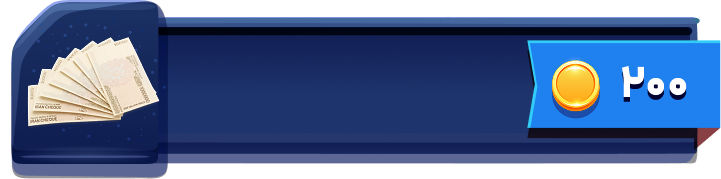
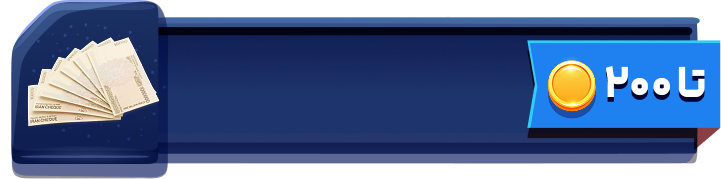
fix issue

Changed region(s): [[0.7628, 0.3352, 0.9764, 0.6704]]

diff --git a/src/controllers/smsController.js b/src/controllers/smsController.js
@@ -7,7 +7,12 @@
 const validator = require("validator");
 const axios = require("axios");
 const Sms = require("../models/sms");
-const { toNormalNumber, isEmptyObject, sendSms, sendSmsCharisma } = require("../utils/helper");
+const {
+  toNormalNumber,
+  isEmptyObject,
+  sendSms,
+  sendSmsCharisma,
+} = require("../utils/helper");
 
 // A helper function to generate a numeric OTP code of given length
 function generateOtpCode(length = 4) {
@@ -53,15 +58,15 @@ exports.sendSmsCode = async (req, res) => {
 
     let sms = new Sms({
       phone: phone,
-      code: code,
-      // code: "12345",
+      // code: code,
+      code: "12345",
     });
 
     const text = "کد ورود شما: " + code + "\n\n کاریزما";
-    const { done } = await sendSmsCharisma(text, phone);
-    if (!done) {
-      return res.json({ status: 502, message: "خطا در ارسال کد تایید!" });
-    }
+    // const { done } = await sendSmsCharisma(text, phone);
+    // if (!done) {
+    // return res.json({ status: 502, message: "خطا در ارسال کد تایید!" });
+    // }
 
     await sms.save();
 

diff --git a/src/services/charismaAuthService.js b/src/services/charismaAuthService.js
@@ -19,7 +19,9 @@ export class BearerAuth {
     const clientId = "IpcnOtc6VbA_uXFJXFjlbhOu2fsa";
     const clientSecret = "iHfFoimuQab6Nym9BR5c5AEcYkoa";
 
-    const credentials = Buffer.from(`${clientId}:${clientSecret}`).toString("base64");
+    const credentials = Buffer.from(`${clientId}:${clientSecret}`).toString(
+      "base64"
+    );
 
     const headers = {
       Authorization: `Basic ${credentials}`,
@@ -49,6 +51,20 @@ export class BearerAuth {
 
     const response = await axios.post(url, payload, {
       headers: { Authorization: `Bearer ${this.token}` },
+      httpsAgent,
+    });
+
+    return response;
+  }
+
+  async get(url, params) {
+    if (!this.token) await this.init();
+
+    const httpsAgent = new https.Agent({ rejectUnauthorized: false });
+
+    const response = await axios.get(url, {
+      headers: { Authorization: `Bearer ${this.token}` },
+      params,
       httpsAgent,
     });
 

diff --git a/src/services/missionService.js b/src/services/missionService.js
@@ -4,7 +4,8 @@
  * Uses OAuth2 Bearer token authentication
  */
 
-const charismaAuthService = require("./charismaAuthService");
+// const charismaAuthService = require("./charismaAuthService");
+const { BearerAuth } = require("../services/charismaAuthService");
 
 /**
  * Mission definitions with their corresponding API endpoints and heal rewards
@@ -55,9 +56,9 @@ exports.checkMissionCompletion = async (missionKey, mobileNumber) => {
     }
 
     const mission = MISSIONS[missionKey];
-    const client = await charismaAuthService.createCharismaClient();
-
-    const response = await client.get(mission.endpoint, {
+    const auth = new BearerAuth();
+    const serverUrl = "https://apig-gw.charisma.tech/gam/v1.0";
+    const response = await auth.get(serverUrl + mission.endpoint, {
       params: {
         mobileNumber: mobileNumber,
       },

diff --git a/src/controllers/userController.js b/src/controllers/userController.js
@@ -354,6 +354,11 @@ exports.addHeal = async (req, res) => {
         return res.json({ status: 400, message: "شما قبلا دریافت کردهاید!" });
       req.user.profile.heal += 2;
       req.user.profile.linkedinHeal = true;
+    } else if (type === "app") {
+      if (req.user.profile.appHeal)
+        return res.json({ status: 400, message: "شما قبلا دریافت کردهاید!" });
+      req.user.profile.heal += 2;
+      req.user.profile.appHeal = true;
     }
 
     await req.user.save();
